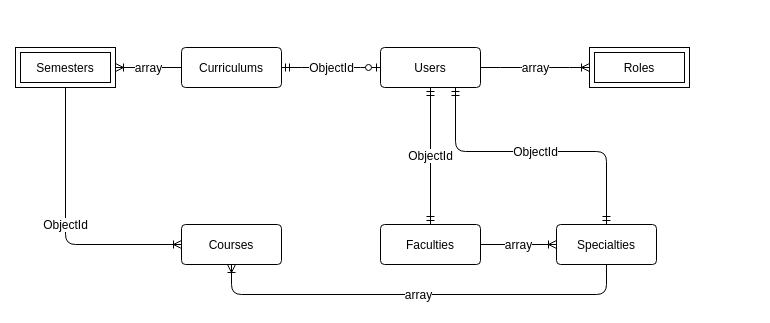
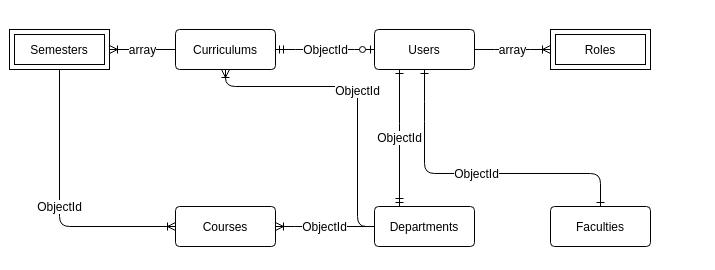
database update: schema

diff --git a/05_Database/Documents/Curriculums.md b/05_Database/Documents/Curriculums.md
@@ -1,0 +1,48 @@
+# Curriculum 📅
+
+```js
+{
+  _id: ObjectId('some-id'),
+  semesters: [
+    {
+      index: 1,
+      courses: [
+        {
+          _id: ObjectId('some-course-1')
+        },
+        {
+          _id: ObjectId('some-course-2')
+        }
+      ],
+      electives: [
+        [ // elective group
+          {
+            _id: ObjectId('some-course-3')
+          },
+          {
+            _id: ObjectId('some-course-4')
+          }
+        ],
+        [ // elective group
+          {
+            _id: ObjectId('some-course-5')
+          },
+          {
+            _id: ObjectId('some-course-6')
+          }
+        ],
+      ]
+    }
+  ],
+  year: 2020,
+  code: 10113,
+  cipher: "6B061001",
+  title: "Information Systems",
+  language: "en",
+  department: {
+    _id: ObjectId('some-id'),
+    name: "Department Of Computer Science"
+  },
+  level: "B"
+}
+```

diff --git a/05_Database/Documents/Courses.md b/05_Database/Documents/Courses.md
@@ -1,0 +1,25 @@
+# Course 📅
+
+```js
+{
+  _id: ObjectId('some-id'),
+  code: "CSS 215",
+  year: 2020,
+  language: "en",
+  name: {
+    en: "Introduction to Algorithms",
+    kz: "Алгоритмдерге кіріспе",
+    ru: "Введение в алгоритмы"
+  },
+  department: {
+    _id: ObjectId('some-id'),
+    name: "Department Of Computer Science"
+  },
+  hours: {
+    theory: 2,
+    practice: 0,
+    labs: 2
+  },
+  credits: 3
+}
+```

diff --git a/05_Database/Documents/Users.md b/05_Database/Documents/Users.md
@@ -2,6 +2,7 @@
 
 ```js
 {
+  _id: ObjectId('some-id'),
   username: "180101033",
   password: "some-password",
   roles: [
@@ -10,6 +11,17 @@
       level: 0
     }
   ],
-  language: "en"
+  language: "en",
+  department: {
+    _id: ObjectId('some-id'),
+    name: "Computer Science"
+  },
+  faculty: {
+    _id: ObjectId('some-id'),
+    name: "Engineering and Natural Sciences"
+  },
+  curriculum: {
+    _id: ObjectId('some-id')
+  }
 }
 ```

diff --git a/05_Database/index.md b/05_Database/index.md
@@ -8,6 +8,8 @@ Currently schema looks like these:
 
 **Defined models example:**
 
-- [Users Model](./Documents/Users.md)
+- [User](./Documents/Users.md)
+- [Curriculum](./Documents/Curriculums.md)
+- [Course](./Documents/Courses.md)
 
 **Defined Roles:** [Link](./01_Roles.md)
